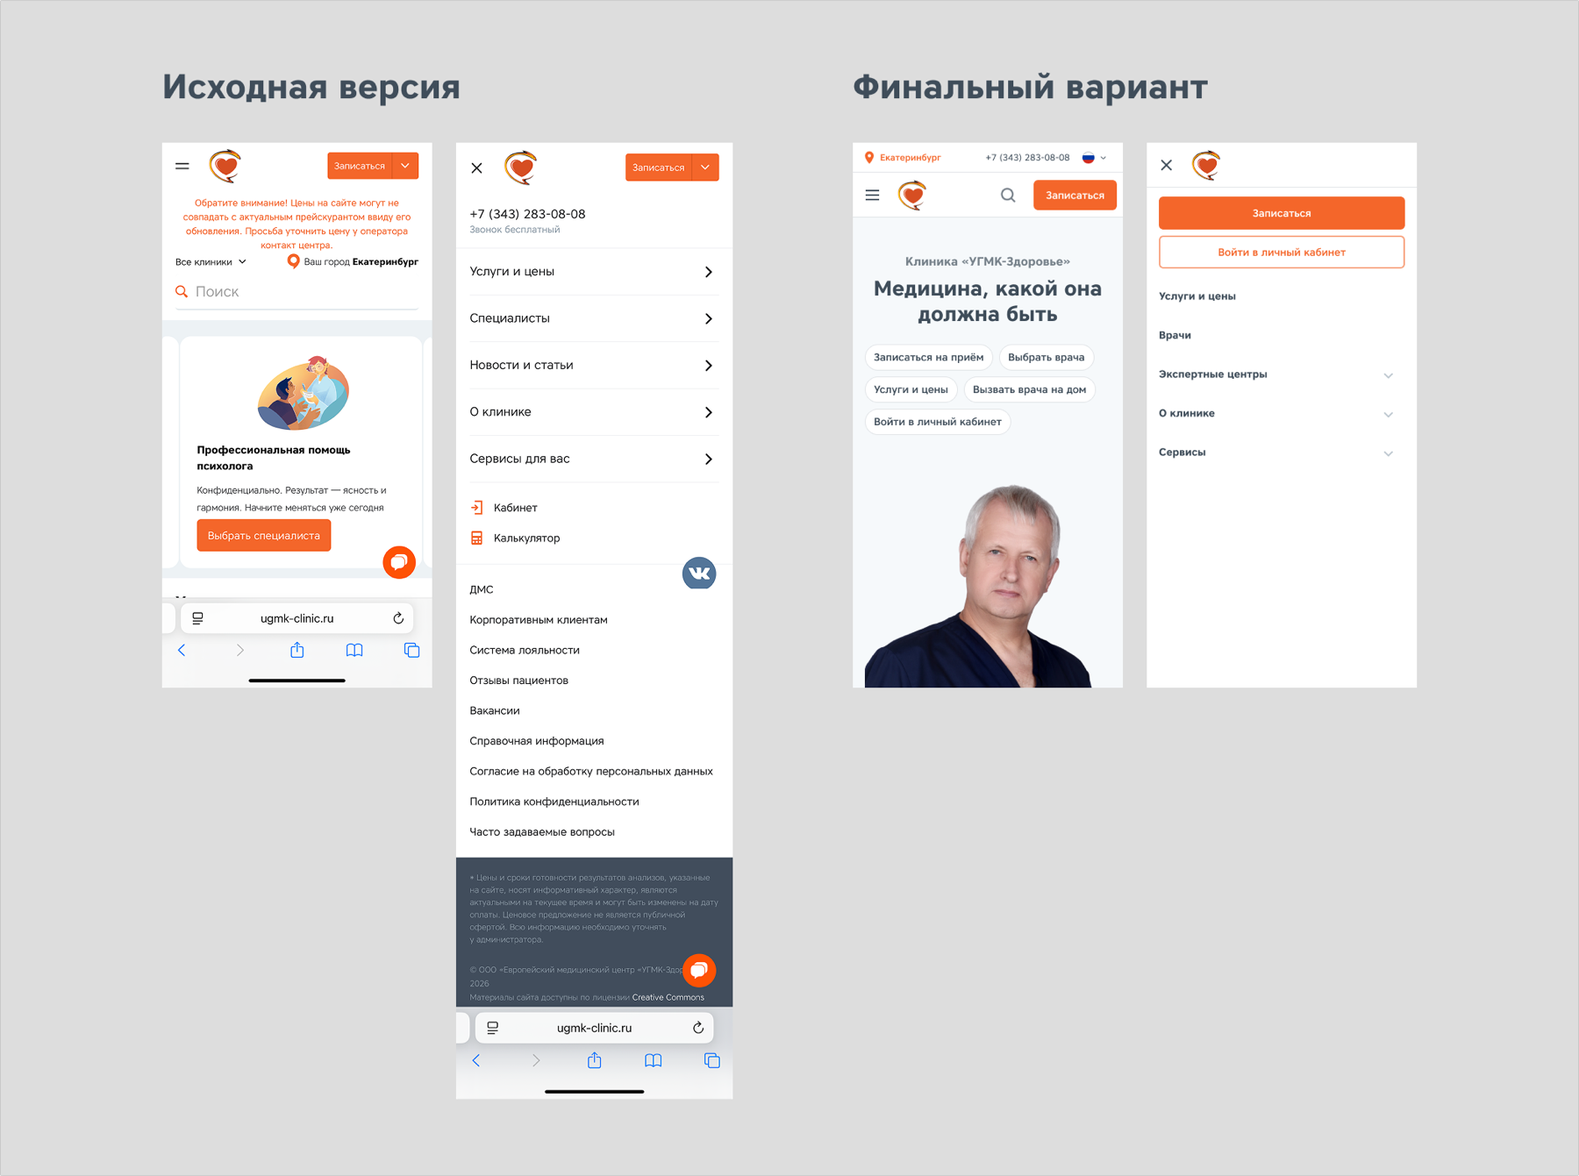
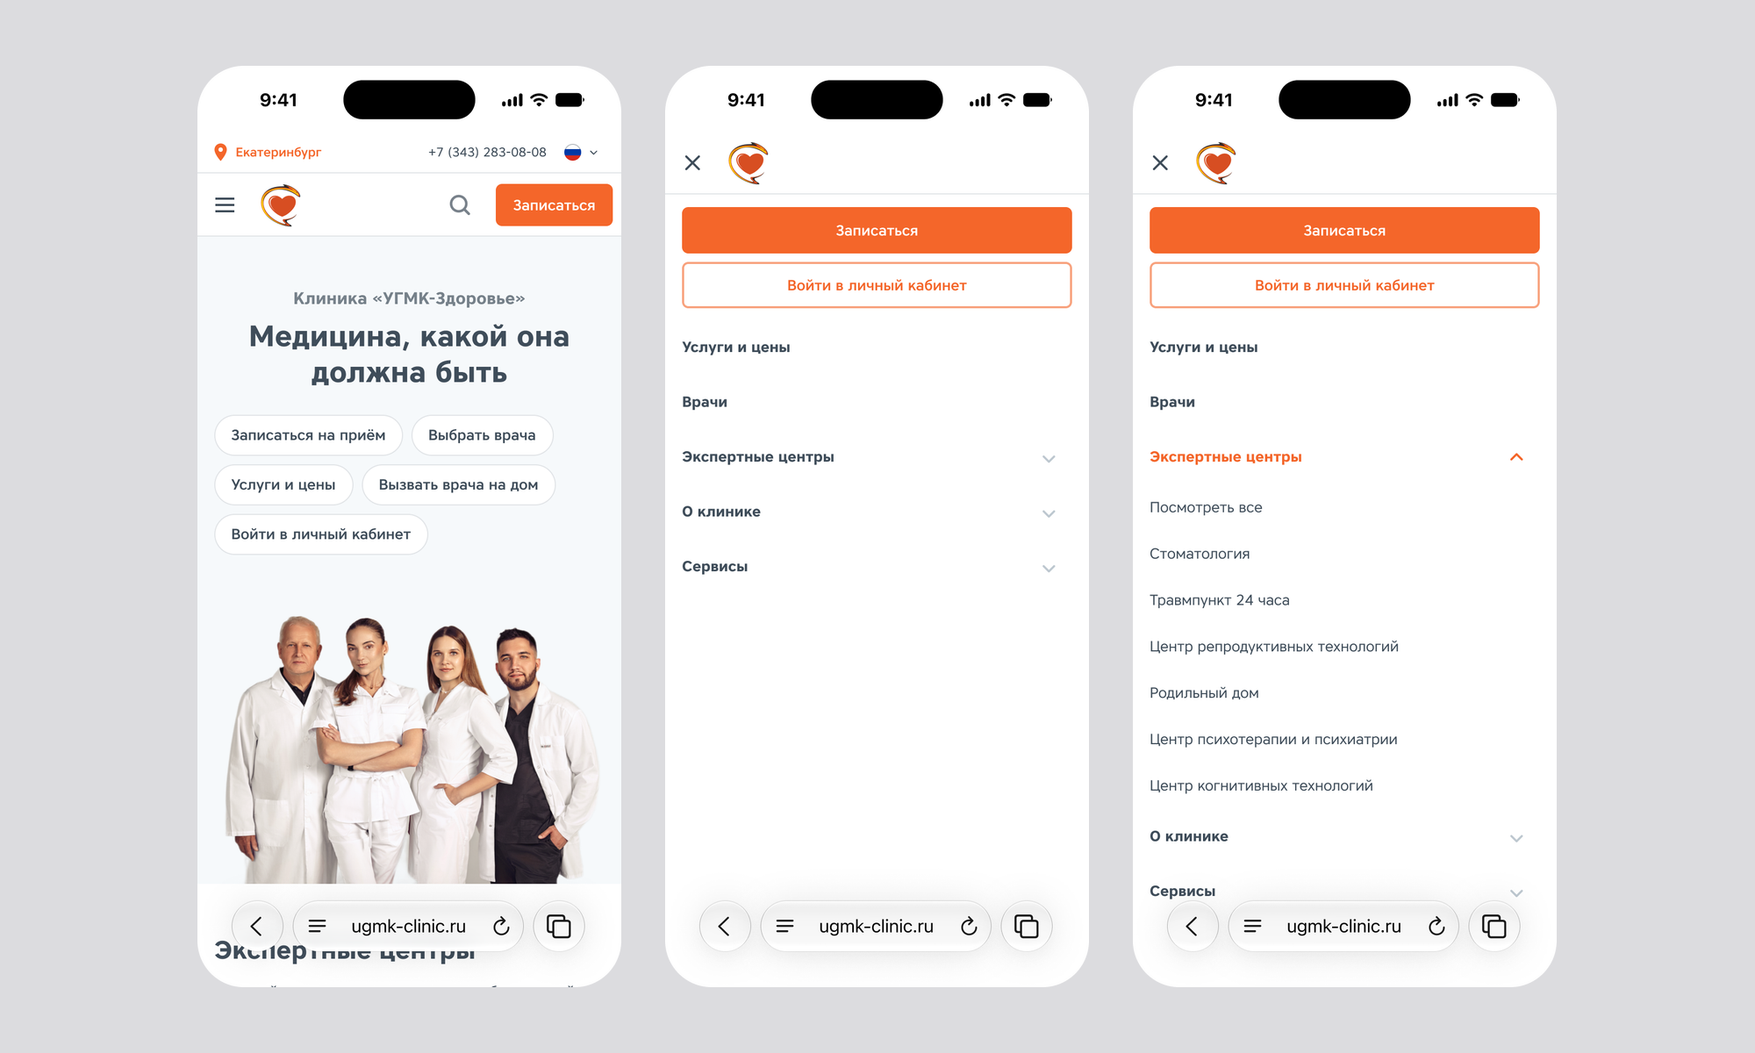
feat: обновить кейс клиники и добавить карусель

diff --git a/src/content/cases/clinic-navigation.ts b/src/content/cases/clinic-navigation.ts
@@ -80,7 +80,7 @@ export const clinicNavigation: CaseStudy = {
   ],
   lead: [
     "Заказчик пришёл за визуальным обновлением главной. UX-аудит показал, что проблема глубже: непредсказуемое поведение компонентов, перегруженное меню навигации, несоответствие неймингов.",
-    "Проанализировала данные Яндекс Метрики, провела конкурентный анализ, пересобрала информационную архитектуру и навигацию, спроектировала главную, собрала базовый UI-kit и провела юзабилити-тестирование. Решения защищала перед заказчиком и согласовывала с SEO",
+    "Проанализировала данные Яндекс Метрики, провела конкурентный анализ, пересобрала информационную архитектуру и навигацию, спроектировала новую главную, собрала базовый UI-kit. Решения защищала перед заказчиком и согласовывала с SEO",
   ],
   blocks: [
     {
@@ -131,7 +131,7 @@ export const clinicNavigation: CaseStudy = {
       items: [
         "Большая часть аудитории заходит впервые (постоянные пациенты записываются через приложение), новый пользователь должен быстро сориентироваться на незнакомом сайте",
         "Основной трафик — с мобильных устройств, поэтому удобство навигации в адаптивной версии стало приоритетом",
-        "Список самых просматриваемых страниц (главная, форма записи, страница выбора услуги, врачи, ЛК, услуги и цены) определил, что выносить в хедер и на первый экран, а что убрать в меню",
+        "Список самых просматриваемых страниц определил, что выносить в хедер и на первый экран, а что убрать в меню",
         "Страница выбора услуги — промежуточный экран, просмотры означают не спрос, а лишний шаг на пути к записи. Это стало аргументом для того, чтобы сделать кнопку «Запись к врачу» на первом экране, ведущую сразу в форму",
         "Выяснилось, какие разделы сайта не используются, согласовала их удаление с заказчиком",
       ],
@@ -140,14 +140,18 @@ export const clinicNavigation: CaseStudy = {
       type: "textImage",
       heading: "Проектирование",
       paragraphs: [
-        "На основе исследования я составила схему новой информационной архитектуры — пересобрала структуру хедера и логику навигации",
+        "На основе исследования я составила схему новой информационной архитектуры — пересобрала структуру хедера, футера и логику навигации",
         "Решение прошло несколько итераций согласования с заказчиком. Презентовала концепцию, получала обратную связь, вносила правки, уточняла требования. На этом этапе мы подтвердили приоритеты и скорректировали состав блоков на главной.",
       ],
       image: {
         src: "/images/cases/clinic/structure-2.png",
         alt: "Исходная и новая структура сайта рядом",
-        width: 1854,
-        height: 1180,
+        width: 3708,
+        height: 2860,
+        overlayLabels: [
+          { text: "Исходная структура", left: 2.24, top: 3.7 },
+          { text: "Новая структура", left: 47.82, top: 3.7 },
+        ],
       },
       wide: true,
     },
@@ -198,12 +202,12 @@ export const clinicNavigation: CaseStudy = {
           text: "Переработала навигацию, собрала новые хедер и футер. Убрала неиспользуемые разделы, привела нейминги к единому стандарту",
         },
         {
-          term: "Компромисс с SEO",
-          text: "На десктопе сохранила мегаменю с переработанной структурой (для сохранения ссылочного веса), в мобильной версии убрала, оставив ссылки в коде",
-        },
-        {
           term: "Первый экран",
           text: "Вынесла ключевые кнопки на главную, пользователь выполняет действие в 1 клик, не открывая меню, особенно важно для адаптивной версии. «Запись к врачу» ведёт сразу в форму, минуя промежуточный экран выбора услуги",
+        },
+        {
+          term: "Компромисс с SEO",
+          text: "На десктопе сохранила мегаменю с переработанной структурой (для сохранения ссылочного веса), в мобильной версии убрала, оставив ссылки в коде",
         },
         {
           term: "UI\u2011kit",
@@ -216,13 +220,27 @@ export const clinicNavigation: CaseStudy = {
       ],
     },
     {
-      type: "image",
-      image: {
-        src: "/images/cases/clinic/result-before-after.png",
-        alt: "Мобильная версия: исходный вариант и финальный",
-        width: 1800,
-        height: 1341,
-      },
+      type: "carousel",
+      images: [
+        {
+          src: "/images/cases/clinic/result-before-after.png",
+          alt: "Новая мобильная главная и два варианта мобильного меню клиники",
+          width: 2000,
+          height: 1200,
+        },
+        {
+          src: "/images/cases/clinic/result-desktop-home.png",
+          alt: "Новая десктопная главная страница клиники",
+          width: 2000,
+          height: 1200,
+        },
+        {
+          src: "/images/cases/clinic/result-megamenus.png",
+          alt: "Два варианта десктопного мегаменю клиники",
+          width: 2000,
+          height: 1200,
+        },
+      ],
       wide: true,
     },
     {
@@ -244,7 +262,7 @@ export const clinicNavigation: CaseStudy = {
         },
         {
           term: "О конверсии",
-          text: "Сквозная конверсия не изменилась. При этом на первый шаг формы заходит заметная доля, а завершают единицы — узкое место не на главной, а в форме записи. Гипотеза передана заказчику",
+          text: "Сквозная конверсия не изменилась. При этом на первый шаг формы записи заходит заметная доля, а завершают единицы — узкое место не на главной, а в форме. Гипотеза передана заказчику",
         },
         {
           term: "Обратная связь",
@@ -263,7 +281,7 @@ export const clinicNavigation: CaseStudy = {
         },
         {
           term: "Проверка решений",
-          text: "Хотелось бы провести юзабилити-тестирование до запуска для проверки гипотез, но в приоритете были другие задачи. Теперь закладываю время на тестирование на этапе планирования",
+          text: "Хотелось бы провести юзабилити-тестирование до запуска, но в приоритете были другие задачи. Теперь понимаю, что нужно закладывать время на тестирование на этапе планирования",
         },
       ],
     },

diff --git a/src/components/CaseCarousel.tsx b/src/components/CaseCarousel.tsx
@@ -1,0 +1,117 @@
+"use client";
+
+import Image from "next/image";
+import { useState } from "react";
+import type { ImageRef } from "@/content/types";
+import { cn } from "@/lib/cn";
+import { ChevronLeftIcon } from "./icons";
+
+export function CaseCarousel({
+  images,
+  sizes,
+  className,
+}: {
+  images: ImageRef[];
+  sizes: string;
+  className?: string;
+}) {
+  const [activeIndex, setActiveIndex] = useState(0);
+  const lastIndex = images.length - 1;
+
+  const showPrevious = () => {
+    setActiveIndex((index) => (index === 0 ? lastIndex : index - 1));
+  };
+
+  const showNext = () => {
+    setActiveIndex((index) => (index === lastIndex ? 0 : index + 1));
+  };
+
+  return (
+    <div
+      className={cn("relative", className)}
+      role="region"
+      aria-roledescription="carousel"
+      aria-label="Результирующие экраны"
+      onKeyDown={(event) => {
+        if (event.key === "ArrowLeft") showPrevious();
+        if (event.key === "ArrowRight") showNext();
+      }}
+    >
+      <div className="relative">
+        <div className="relative aspect-[5/3] overflow-hidden rounded-card border border-line bg-stage">
+          {images.map((image, index) => {
+            const active = index === activeIndex;
+
+            return (
+              <div
+                key={image.src}
+                className={cn(
+                  "absolute inset-0 transition-opacity duration-300",
+                  active ? "opacity-100" : "pointer-events-none opacity-0",
+                )}
+                role="group"
+                aria-roledescription="slide"
+                aria-label={`${index + 1} из ${images.length}`}
+                aria-hidden={!active}
+              >
+                <Image
+                  src={image.src}
+                  alt={active ? image.alt : ""}
+                  width={image.width}
+                  height={image.height}
+                  sizes={sizes}
+                  className="h-full w-full object-cover"
+                />
+              </div>
+            );
+          })}
+        </div>
+
+        <button
+          type="button"
+          aria-label="Предыдущий слайд"
+          onClick={showPrevious}
+          className="absolute left-0 top-1/2 grid size-9 -translate-x-1/2 -translate-y-1/2 place-items-center rounded-full bg-surface text-muted shadow-[0_2px_10px_rgba(24,24,27,0.10)] transition-colors hover:bg-chip hover:text-ink sm:size-10"
+        >
+          <ChevronLeftIcon className="size-5 -translate-x-px" />
+        </button>
+
+        <button
+          type="button"
+          aria-label="Следующий слайд"
+          onClick={showNext}
+          className="absolute right-0 top-1/2 grid size-9 translate-x-1/2 -translate-y-1/2 place-items-center rounded-full bg-surface text-muted shadow-[0_2px_10px_rgba(24,24,27,0.10)] transition-colors hover:bg-chip hover:text-ink sm:size-10"
+        >
+          <ChevronLeftIcon className="size-5 translate-x-px rotate-180" />
+        </button>
+      </div>
+
+      <div
+        className="mt-1 flex items-center justify-center gap-0"
+        aria-label="Выбор слайда"
+      >
+        {images.map((image, index) => (
+          <button
+            key={image.src}
+            type="button"
+            aria-label={`Показать слайд ${index + 1}`}
+            aria-current={index === activeIndex ? "true" : undefined}
+            onClick={() => setActiveIndex(index)}
+            className="grid size-4 place-items-center rounded-full"
+          >
+            <span
+              className={cn(
+                "size-1.5 rounded-full transition-colors",
+                index === activeIndex ? "bg-muted" : "bg-edge",
+              )}
+            />
+          </button>
+        ))}
+      </div>
+
+      <p className="sr-only" aria-live="polite">
+        Слайд {activeIndex + 1} из {images.length}: {images[activeIndex]?.alt}
+      </p>
+    </div>
+  );
+}

diff --git a/src/components/ComparisonCover.tsx b/src/components/ComparisonCover.tsx
@@ -9,16 +9,28 @@ import { cn } from "@/lib/cn";
 export function ComparisonCover({
   comparison,
   className,
+  detail = false,
   priority = false,
   sizes,
 }: {
   comparison: CoverComparison;
   className?: string;
+  detail?: boolean;
   priority?: boolean;
   sizes: string;
 }) {
   const [beforeHome, beforeMenu] = comparison.before;
   const [afterHome, afterMenu] = comparison.after;
+  const labelClassName = cn(
+    "absolute left-0 top-[5%] font-medium text-muted",
+    detail
+      ? "text-[13px] leading-none sm:text-[18px]"
+      : "text-[13px] sm:text-[15px]",
+  );
+  const imageRowClassName = cn(
+    "absolute inset-x-0 flex items-start justify-between gap-[3%]",
+    detail ? "top-[11%]" : "top-[13%]",
+  );
 
   return (
     <div
@@ -28,10 +40,8 @@ export function ComparisonCover({
       )}
     >
       <div className="absolute inset-y-0 left-[3%] w-[45.5%]">
-        <p className="absolute left-0 top-[5%] text-[13px] font-medium text-muted sm:text-[15px]">
-          Было
-        </p>
-        <div className="absolute inset-x-0 top-[13%] flex items-start justify-between gap-[3%]">
+        <p className={labelClassName}>Было</p>
+        <div className={imageRowClassName}>
           <Image
             src={beforeHome.src}
             alt={beforeHome.alt}
@@ -54,10 +64,8 @@ export function ComparisonCover({
       </div>
 
       <div className="absolute inset-y-0 right-[3%] w-[45.5%]">
-        <p className="absolute left-0 top-[5%] text-[13px] font-medium text-muted sm:text-[15px]">
-          Стало
-        </p>
-        <div className="absolute inset-x-0 top-[13%] flex items-start justify-between gap-[3%]">
+        <p className={labelClassName}>Стало</p>
+        <div className={imageRowClassName}>
           <Image
             src={afterHome.src}
             alt={afterHome.alt}

diff --git a/src/components/CaseImage.tsx b/src/components/CaseImage.tsx
@@ -19,7 +19,7 @@ export function CaseImage({
     <figure className={className}>
       <div
         className={cn(
-          "w-full overflow-hidden rounded-card",
+          "relative w-full overflow-hidden rounded-card",
           backdrop
             ? "bg-stage p-4 sm:p-8 lg:p-12"
             : "rounded-media border border-line bg-chip",
@@ -38,6 +38,16 @@ export function CaseImage({
               "rounded-media shadow-[0_12px_40px_rgba(24,24,27,0.16)]",
           )}
         />
+
+        {image.overlayLabels?.map((label) => (
+          <p
+            key={label.text}
+            className="pointer-events-none absolute whitespace-nowrap text-[13px] font-medium leading-none text-muted sm:text-[18px]"
+            style={{ left: `${label.left}%`, top: `${label.top}%` }}
+          >
+            {label.text}
+          </p>
+        ))}
       </div>
 
       {image.caption ? (

diff --git a/src/components/CaseBlocks.tsx b/src/components/CaseBlocks.tsx
@@ -1,5 +1,6 @@
 import type { CaseBlock } from "@/content/types";
 import { cn } from "@/lib/cn";
+import { CaseCarousel } from "./CaseCarousel";
 import { CaseImage } from "./CaseImage";
 import { MetricRow } from "./Metrics";
 
@@ -111,6 +112,19 @@ function Block({ block }: { block: CaseBlock }) {
             ))}
           </div>
         </div>
+      );
+
+    case "carousel":
+      return (
+        <CaseCarousel
+          images={block.images}
+          className={block.wide ? wide : reading}
+          sizes={
+            block.wide
+              ? "(max-width: 1100px) 100vw, 1040px"
+              : "(max-width: 780px) 100vw, 720px"
+          }
+        />
       );
 
     case "list": {

diff --git a/src/content/types.ts b/src/content/types.ts
@@ -11,6 +11,8 @@ export interface ImageRef {
   alt: string;
   width: number;
   height: number;
+  /** Короткие подписи поверх изображения, координаты заданы в процентах. */
+  overlayLabels?: { text: string; left: number; top: number }[];
   /** Подпись под картинкой (необязательно) */
   caption?: string;
 }
@@ -46,6 +48,7 @@ export type CaseBlock =
     }
   | { type: "image"; heading?: string; image: ImageRef; wide?: boolean }
   | { type: "gallery"; heading?: string; images: ImageRef[] }
+  | { type: "carousel"; images: ImageRef[]; wide?: boolean }
   | {
       type: "list";
       heading?: string;

diff --git a/src/app/cases/[slug]/page.tsx b/src/app/cases/[slug]/page.tsx
@@ -135,6 +135,7 @@ export default async function CasePage({ params }: PageProps<"/cases/[slug]">) {
             {study.coverComparison ? (
               <ComparisonCover
                 comparison={study.coverComparison}
+                detail
                 priority
                 className="mx-auto mt-14 max-w-[1040px] rounded-card sm:mt-16"
                 sizes="(max-width: 1100px) 100vw, 1040px"

diff --git a/src/components/icons.tsx b/src/components/icons.tsx
@@ -47,6 +47,14 @@ export function ArrowLeftIcon(props: IconProps) {
   );
 }
 
+export function ChevronLeftIcon(props: IconProps) {
+  return (
+    <svg {...base} {...props}>
+      <path d="m14.5 17-5-5 5-5" />
+    </svg>
+  );
+}
+
 export function ArrowUpRightIcon(props: IconProps) {
   return (
     <svg {...base} {...props}>
